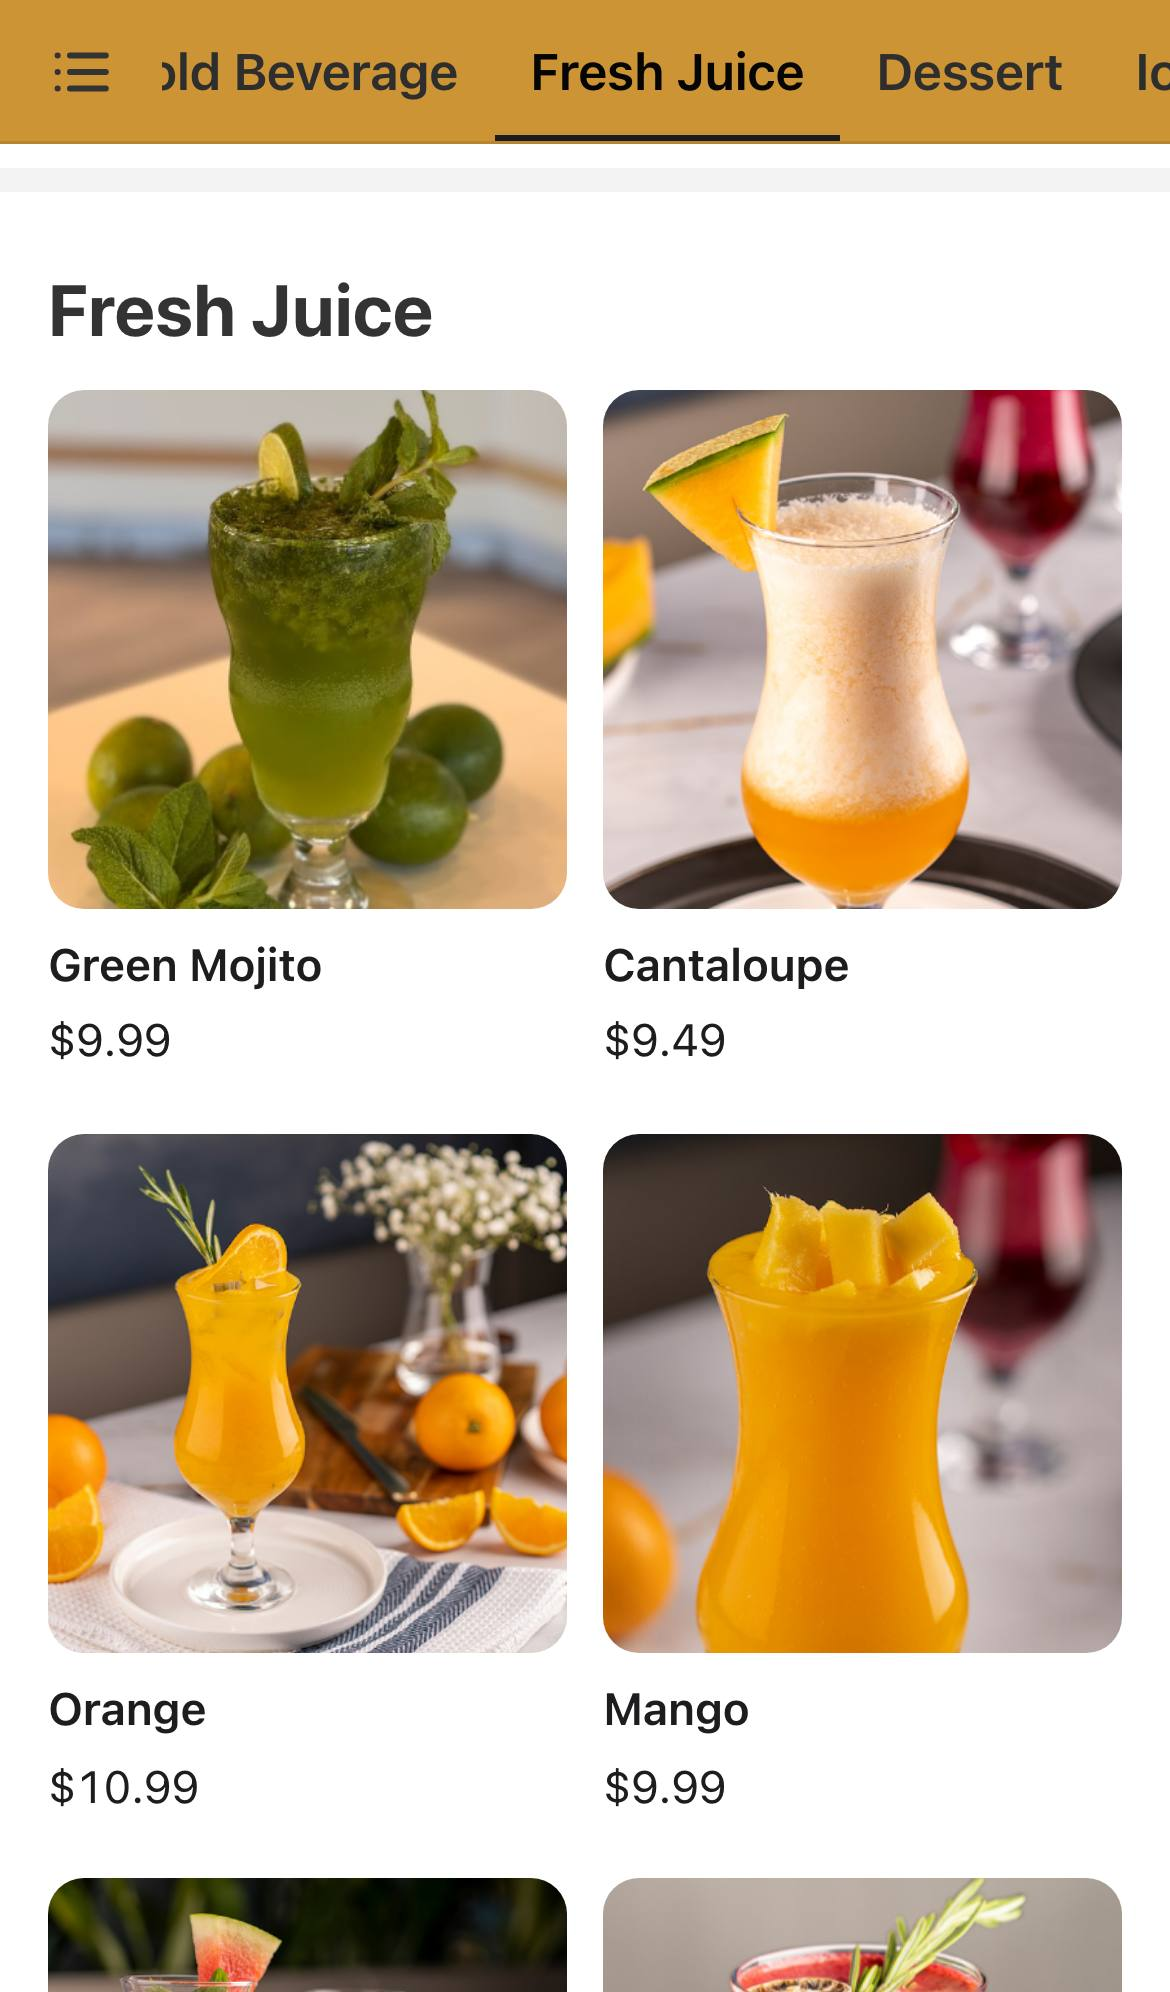
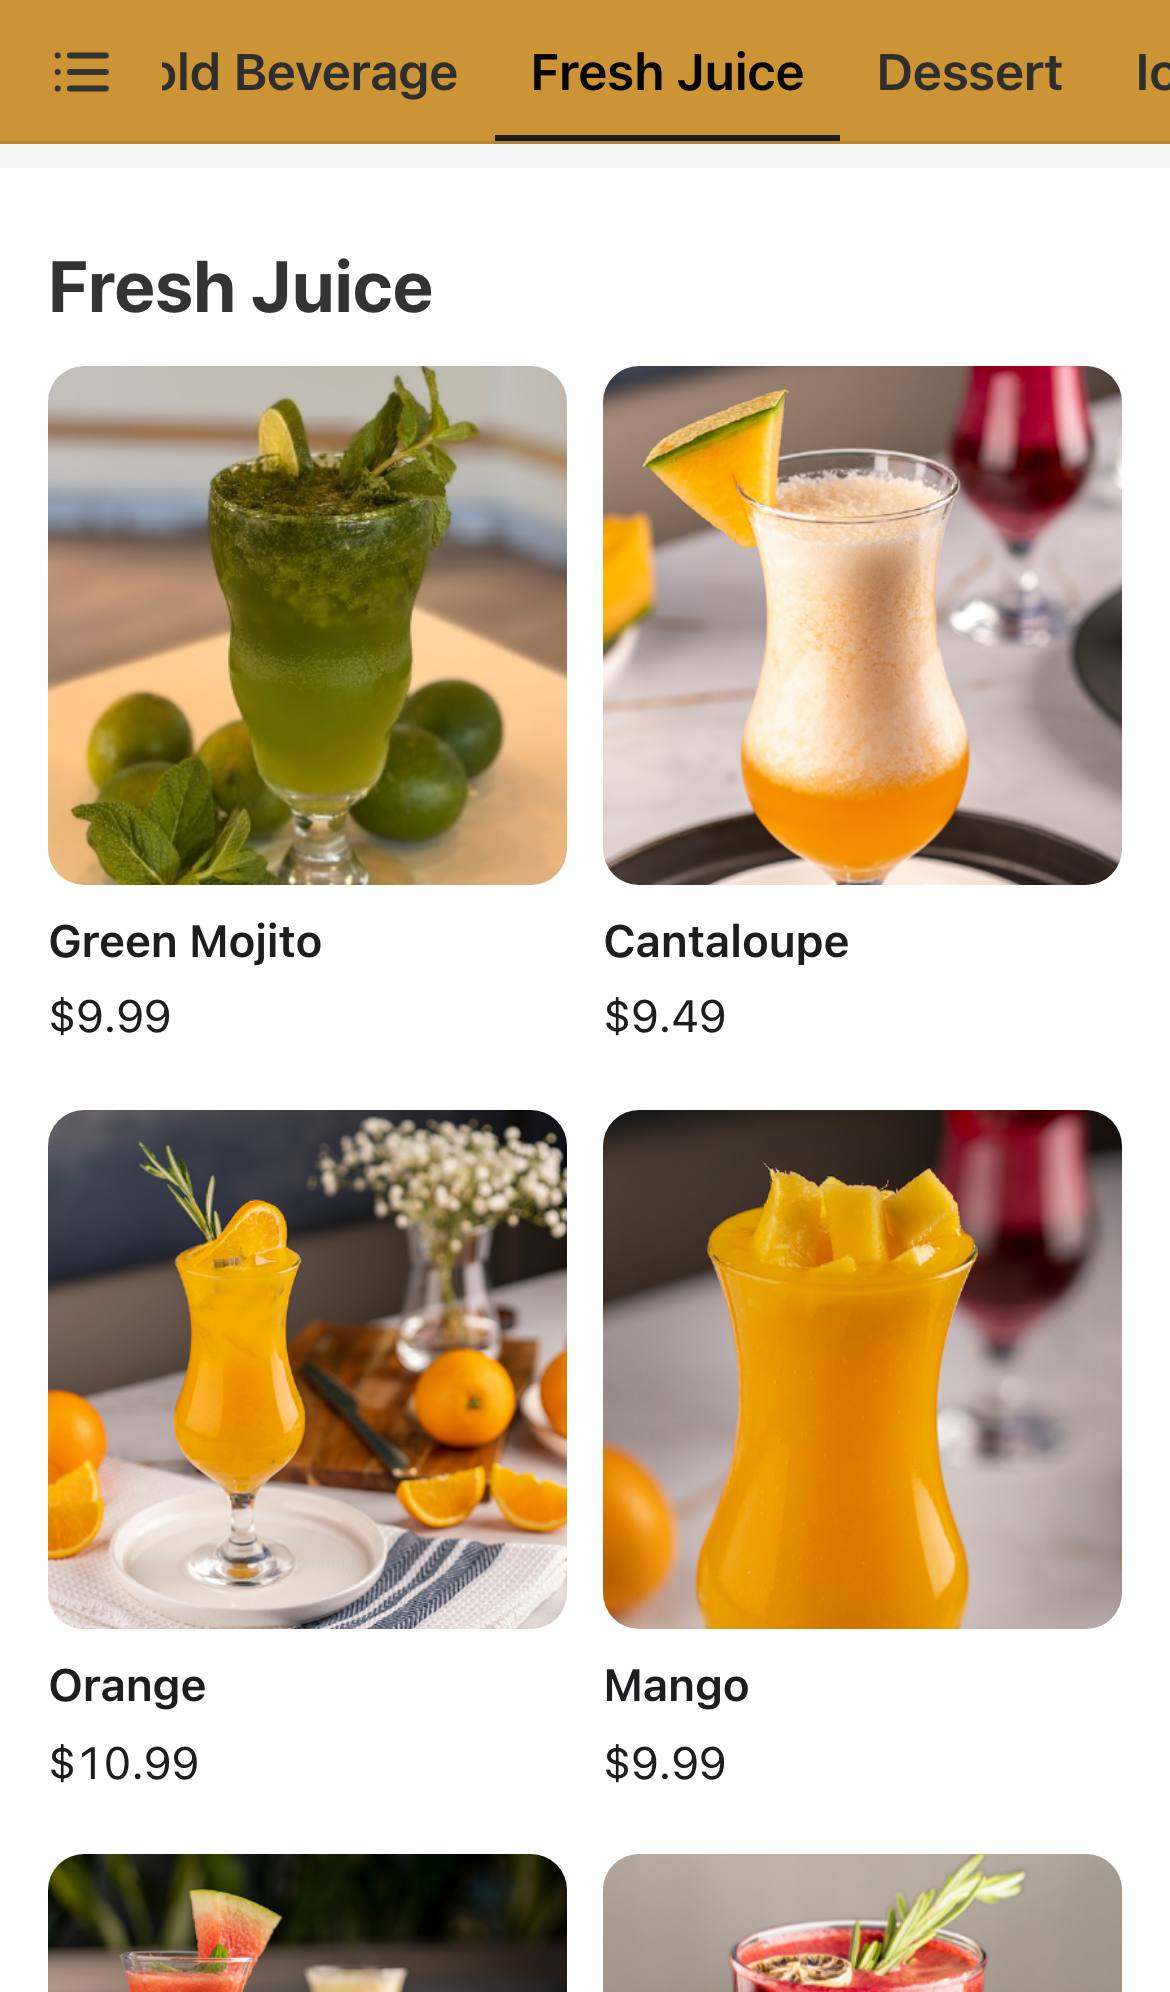
Grid cards show the photo, the name and the price only; the description shows in the popup (Kian, 2026-10-08)
The grid layout's cards (src/components/menu-kit.tsx ItemCard) no longer carry the item description; it opens with the card like the sizes and options. Runbook, brief and the section-grid evidence updated: re-captured on this build, 0 descriptions on the 8 cards, the popup carries it, two 173 px columns unchanged.

Changed region(s): [[0.0308, 0.1245, 0.9846, 1.0]]

diff --git a/src/components/menu-kit.tsx b/src/components/menu-kit.tsx
@@ -95,9 +95,9 @@ export function ItemRow({ item, eager, photos = true }: { item: Item; eager: boo
   );
 }
 
-// One card of the grid layout (Kian, 2026-10-08; Uber Eats-style): a big square photo on top, then the name, the price
-// and the description. An item without a photo keeps the photo's place as a placeholder so the two columns stay even.
-// Same tokens as the rows, same sheet on tap.
+// One card of the grid layout (Kian, 2026-10-08; Uber Eats-style): a big square photo on top, then the name and the price
+// only; the description shows in the sheet once the card is tapped (Kian, same day). An item without a photo keeps the
+// photo's place as a placeholder so the two columns stay even. Same tokens as the rows, same sheet on tap.
 export function ItemCard({ item, eager, photos = true }: { item: Item; eager: boolean; photos?: boolean }) {
   return (
     <li className="item card flex min-w-0 flex-col gap-2 bg-(--c-rows-bg)" tabIndex={0} role="button" aria-haspopup="dialog" data-id={item.id} data-photo={item.photo?.url ?? undefined}>
@@ -107,7 +107,6 @@ export function ItemCard({ item, eager, photos = true }: { item: Item; eager: bo
       <div className="min-w-0">
         <Bi as="h3" text={item.name} className="text-[15px] font-semibold leading-snug text-(--c-rows-name)" />
         <PriceLine item={item} />
-        <Bi as="p" text={item.description} className="mt-1 line-clamp-2 text-[13px] leading-snug text-(--c-rows-desc)" />
         {item.serves && <p className="mt-2"><Serves item={item} /></p>}
       </div>
       <Detail item={item} />

diff --git a/docs/runbook.md b/docs/runbook.md
@@ -39,7 +39,7 @@ npm run admin:create -- --email <your email> --name "<your name>"
 - **Photos** (step 2): *Add photo* / *Replace photo* in the item editor and in *+ Add item* opens the phone's camera or photos. The photo is shrunk on the phone (at most 1400 px, JPEG) and uploaded; linked photos from the import keep working and can be replaced or removed the same way. Uploads live on local disk (see *Uploads* below).
 - **Tap-to-edit** (step 2): inside the preview, tap an item to open its editor, a section heading to rename it, or the header to open the Details tab. The customers' page itself has none of this: the admin attaches it to the frame after it loads.
 - **Style** tab (rebuilt 2026-10-08; owner and admin, staff get 403 on its route): the page's colours, grouped by the parts customers see from top to bottom (Page, Header, Category tabs, Section headings, Item rows, Item popup, Footer, Intro; `src/venues/tokens.ts`), then a *Layout* group with the template's switches (logo animation, photos in the list; what the header shows on the default template; `src/venues/styles.ts`). Every colour has a plain label and a swatch; open a group, tap a colour, pick from the venue's own colours (the brand record), the phone's colour picker or a hex field. Text, hairlines and chips are *linked* to the background they sit on: "Auto" means they follow it (dark or light text for readability, dividers a light shade of it); a colour you set is "Custom" with *Back to auto*. The readability guard refuses a colour that would be hard to read (WCAG contrast 4.5:1 for text, 3:1 for headings and the tab underline) with the ratio, the threshold and a one-tap nearest colour that passes. The open group is outlined in the preview; tapping a part of the page in the preview opens its group. The controls on the left are the master (Kian, 2026-10-08): a tap in the preview is acted on once, and nothing that follows (a save, the data or the preview reloading) changes the open group or the open colour; a tap on the region of the group that is already open keeps the colour you had open. *Reset group to venue default* on each group and *Reset all colours* (with a confirmation) at the bottom; Undo works after both. Values are saved per venue (`venues.style.colors` plus the layout keys); the recorded brand colours are never changed and are the swatches.
-- **Section layout** (Kian, 2026-10-08; in the Style tab's *Layout* group, owner and admin): every section has a **List / Grid** switch. *List* is the full-width row with a small square photo; *Grid* shows the section as two columns of cards with a big square photo on top, the name, the price and the description (Uber Eats-style), for sections such as juices, desserts or drinks where the photos sell. Same colours (the *Item rows* tokens), same item popup on tap; an item without a photo keeps the photo's place as a placeholder so the columns stay even. The choice is saved on the section (`sections.layout`, migration 005), shows in the preview at once with *Grid · Undo* / *List · Undo*, and is recorded like every other change. Staff cannot change it (the section route answers 403 for `layout`).
+- **Section layout** (Kian, 2026-10-08; in the Style tab's *Layout* group, owner and admin): every section has a **List / Grid** switch. *List* is the full-width row with a small square photo; *Grid* shows the section as two columns of cards with a big square photo on top, the name and the price (Uber Eats-style; the description shows only in the popup), for sections such as juices, desserts or drinks where the photos sell. Same colours (the *Item rows* tokens), same item popup on tap; an item without a photo keeps the photo's place as a placeholder so the columns stay even. The choice is saved on the section (`sections.layout`, migration 005), shows in the preview at once with *Grid · Undo* / *List · Undo*, and is recorded like every other change. Staff cannot change it (the section route answers 403 for `layout`).
 - **Details** tab (step 2; owner and admin): name and tagline in both languages, the logo (upload from the phone; PNG or SVG with transparency looks best), locations (label, address, phone, hours; *To confirm* marks from the import clear when a field is edited or *Mark confirmed* is tapped; add and remove locations), and the switch *Show Persian drafts to customers*.
 - **+ Add venue** (step 2; owner and admin), in the venue dropdown: a name creates the venue on the **default template** with one empty section and opens its Details tab. Its customers' page is `/<id>` (the id is made from the English name) and is rendered on its first request, then regenerated on every save like the others.
 - Wording for staff: *Shown / Hidden* everywhere (the database column is still `listed`).

diff --git a/reports/section-grid/README.md b/reports/section-grid/README.md
@@ -1,14 +1,14 @@
 # Section layout: List or Grid per section (Kian, 2026-10-08)
 
-Every section is shown to customers as a **List** (the full-width rows of 2026-10-07, small square photo on the right) or as a **Grid** (two columns of cards: a big square photo on top, then the name, the price and the description; Uber Eats-style). The owner or an admin chooses it per section in the Style tab, *Layout* group, *Section layout*; staff cannot (403 on the field). Same colour tokens (*Item rows*), same item popup on tap. Saved on the section (`sections.layout`, migration 005), recorded like every change, undoable with *Grid · Undo* / *List · Undo*.
+Every section is shown to customers as a **List** (the full-width rows of 2026-10-07, small square photo on the right) or as a **Grid** (two columns of cards: a big square photo on top, then the name and the price; the description shows only in the popup; Uber Eats-style). The owner or an admin chooses it per section in the Style tab, *Layout* group, *Section layout*; staff cannot (403 on the field). Same colour tokens (*Item rows*), same item popup on tap. Saved on the section (`sections.layout`, migration 005), recorded like every change, undoable with *Grid · Undo* / *List · Undo*.
 
-## Captured on the new build, scratch copy of the working database, "Fresh Juice" switched to Grid through the admin route (`capture.mjs`, `capture.json`)
+## Captured on the build with the description removed from the cards (Kian, 2026-10-08, later), scratch copy of the working database, "Fresh Juice" switched to Grid through the admin route (`capture.mjs`, `capture.json`)
 
 | what | measured |
 |---|---|
-| save | HTTP 200, section answers `layout: grid`, one change record; the public page carried the grid 5 ms later |
-| public HTML of the section | 8 cards (its 8 shown items), 0 rows, 8 popups (one `<template>` per card), 0 placeholders (every shown juice has a photo); the other 14 sections still lists; 4 inline script tags, 0 external scripts (no runtime JavaScript) |
-| grid on an iPhone 13 viewport (390 px) | `display: grid`, columns `173px 173px`, gap 12 px across and 20 px down; cards at x = 16 and 201, photos 173 × 173 (a list row's photo is 96 × 96) |
+| save | HTTP 200, section answers `layout: grid`, one change record; the public page carried the grid 6 ms later |
+| public HTML of the section | 8 cards (its 8 shown items), 0 rows, 8 popups (one `<template>` per card), 0 placeholders (every shown juice has a photo), **0 descriptions on the cards** (the one juice that has a description shows it in its popup only); the other sections keep their own layout (12 lists in this copy, which carries Kian's live choices); 4 inline script tags, 0 external scripts (no runtime JavaScript) |
+| grid on an iPhone 13 viewport (390 px) | `display: grid`, columns `173px 173px`, gap 12 px across and 20 px down; cards at x = 16 and 201, photos 173 × 173 (a list row's photo is 96 × 96; the second row of cards starts 248 px below the first now that cards carry no description) |
 | first four cards | Green Mojito $9.99 · Cantaloupe $9.49 · Orange $10.99 · Mango $9.99 |
 | popup from a card | opens with the title "Green Mojito" and the hero photo |
 | Persian | `dir=rtl`; the first card sits at x = 201 and the second at x = 16 (the columns mirror) |

diff --git a/CLAUDE.md b/CLAUDE.md
@@ -99,7 +99,7 @@ If you see a material problem with this stack for these requirements, raise it u
 ## Style tab: controls as the master, section layout List / Grid (Kian, 2026-10-08, built)
 
 - Bug fixed: while a colour was being edited, the open group jumped to another group. Cause: the "open the group tapped in the preview" step ran again every time the tab's data reloaded after a save, so a group tapped earlier in the preview reopened over the one being edited. Now a preview tap is acted on exactly once, when it happens; a tap on the region of the group already open keeps the open colour; the outlined region is state owned by the editor and flows to both previews (laptop frame, phone overlay), so the preview always follows the controls and never the other way round. The suite's Style drill replays the scenario (preview tap, another group opened, a colour saved: the group and its colour stay open through the save and both reloads).
-- Section layout: every section is shown to customers as a **List** (the rows of 2026-10-07) or a **Grid** (two columns of cards with a big square photo, the name, the price and the description, Uber Eats-style), chosen per section in the Style tab's Layout group (owner and admin; staff get 403 on the field). Same colour tokens (Item rows), same item popup; an item without a photo keeps a placeholder so the columns stay even; the first two cards of the first section load their photo eagerly. Data-model change made for this: `sections.layout` text, 'list' | 'grid', default 'list' (migration 005), carried in the change records and by Undo. Alternative considered and rejected: a list of grid section ids inside `venues.style` (no migration, but the choice would not follow the section through delete, Undo and restore). Public pages still run without runtime JavaScript; no new dependency.
+- Section layout: every section is shown to customers as a **List** (the rows of 2026-10-07) or a **Grid** (two columns of cards with a big square photo, the name and the price, Uber Eats-style; the description shows only in the popup, Kian, same day), chosen per section in the Style tab's Layout group (owner and admin; staff get 403 on the field). Same colour tokens (Item rows), same item popup; an item without a photo keeps a placeholder so the columns stay even; the first two cards of the first section load their photo eagerly. Data-model change made for this: `sections.layout` text, 'list' | 'grid', default 'list' (migration 005), carried in the change records and by Undo. Alternative considered and rejected: a list of grid section ids inside `venues.style` (no migration, but the choice would not follow the section through delete, Undo and restore). Public pages still run without runtime JavaScript; no new dependency.
 
 ## Milestone 1 rules (Kian and the PM, 2026-10-07)
 
